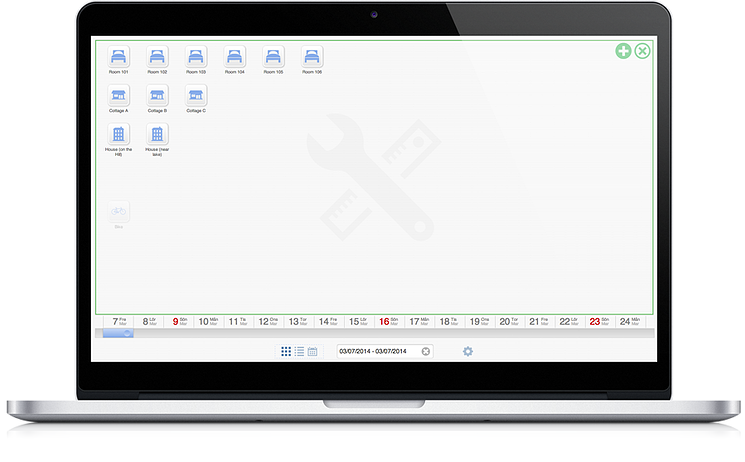
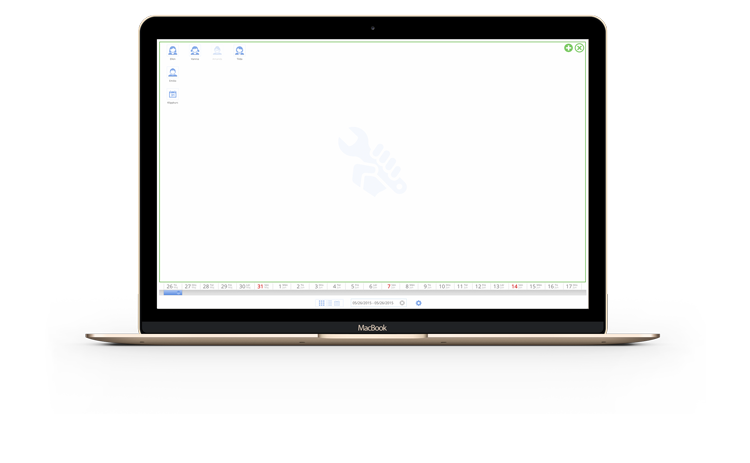
Changes to signup page

diff --git a/pages/reservation/reservation.html b/pages/reservation/reservation.html
@@ -74,28 +74,6 @@
             	
             </div>
 		
-			<!--
-            <div class="ui-grid-a">
-            	<div class="ui-block-a">
-                    <a data-id="startdate.button" data-role="button" class="Xui-disabled">
-                        <span data-id="startdate.text" data-i18n="from">From</span>
-                        <span data-id="startdate.date"></span>
-                    </a>
-            	</div>
-            	<div class="ui-block-b">
-                    <a data-id="enddate.button" data-role="button" class="Xui-disabled">
-                        <span data-id="enddate.text" data-i18n="to">To</span>
-                        <span data-id="enddate.date"></span>
-                    </a>
-            	</div>
-            </div>
-
-            <label  data-i18n="price">
-                Price
-            </label>
-            <input data-id="price" type="text" value="" placeholder="" title="">
-			-->
-
             <label  data-i18n="status">
                 Status
             </label>

diff --git a/pages/signup/signup.js b/pages/signup/signup.js
@@ -115,7 +115,7 @@
 					enableDisable();
 				});
 				
-				_elements.signup.what.attr('placeholder', i18n.text('what-placeholder', 'Segway, Squash, Party Tent, Wine Tasting, Massage'));
+				_elements.signup.what.attr('placeholder', i18n.text('what-placeholder', 'Segway, Squash, Party Tent, Bed & Breakfast, Wine Tasting, Massage, Personal Trainer'));
 				_elements.signup.email.attr('placeholder', i18n.text('email-placeholder', 'jane@rentapartytent.com'));
 
 				enableDisable();

diff --git a/pages/signup/signup.html b/pages/signup/signup.html
@@ -145,7 +145,7 @@
 					</div>			
 				</section>
 				<div class="image">
-					<img src="images/hairdresser.png">
+					<img src="images/scissors.png">
 				</div>				
 			</div>
 
@@ -209,7 +209,7 @@
 			<div class="container">
 			
 				<div class="image">
-					<img src="images/mockup-iphone6-bikes.png">
+					<img src="images/booking-by-sms.png">
 				</div>
 				
 				<section class="right">

diff --git a/pages/signup/signup.css b/pages/signup/signup.css
@@ -326,8 +326,8 @@
 #signup-page section.picture-macbook {
   background-image: url('images/usp-macbook.png');
   background-repeat: no-repeat;
-  background-position: right bottom;
-  overflow: auto;
+  background-position: right;
+  overflow: visible;
 }
 #signup-page section.right {
   max-width: 34em !important;

diff --git a/pages/signup/signup.less b/pages/signup/signup.less
@@ -160,8 +160,8 @@
     section.picture-macbook {
 		background-image: url('images/usp-macbook.png');
 		background-repeat: no-repeat;
-		background-position: right bottom;	 
-		overflow: auto;   
+		background-position: right;	 
+		overflow: visible;   
     }
 
     section.right {
